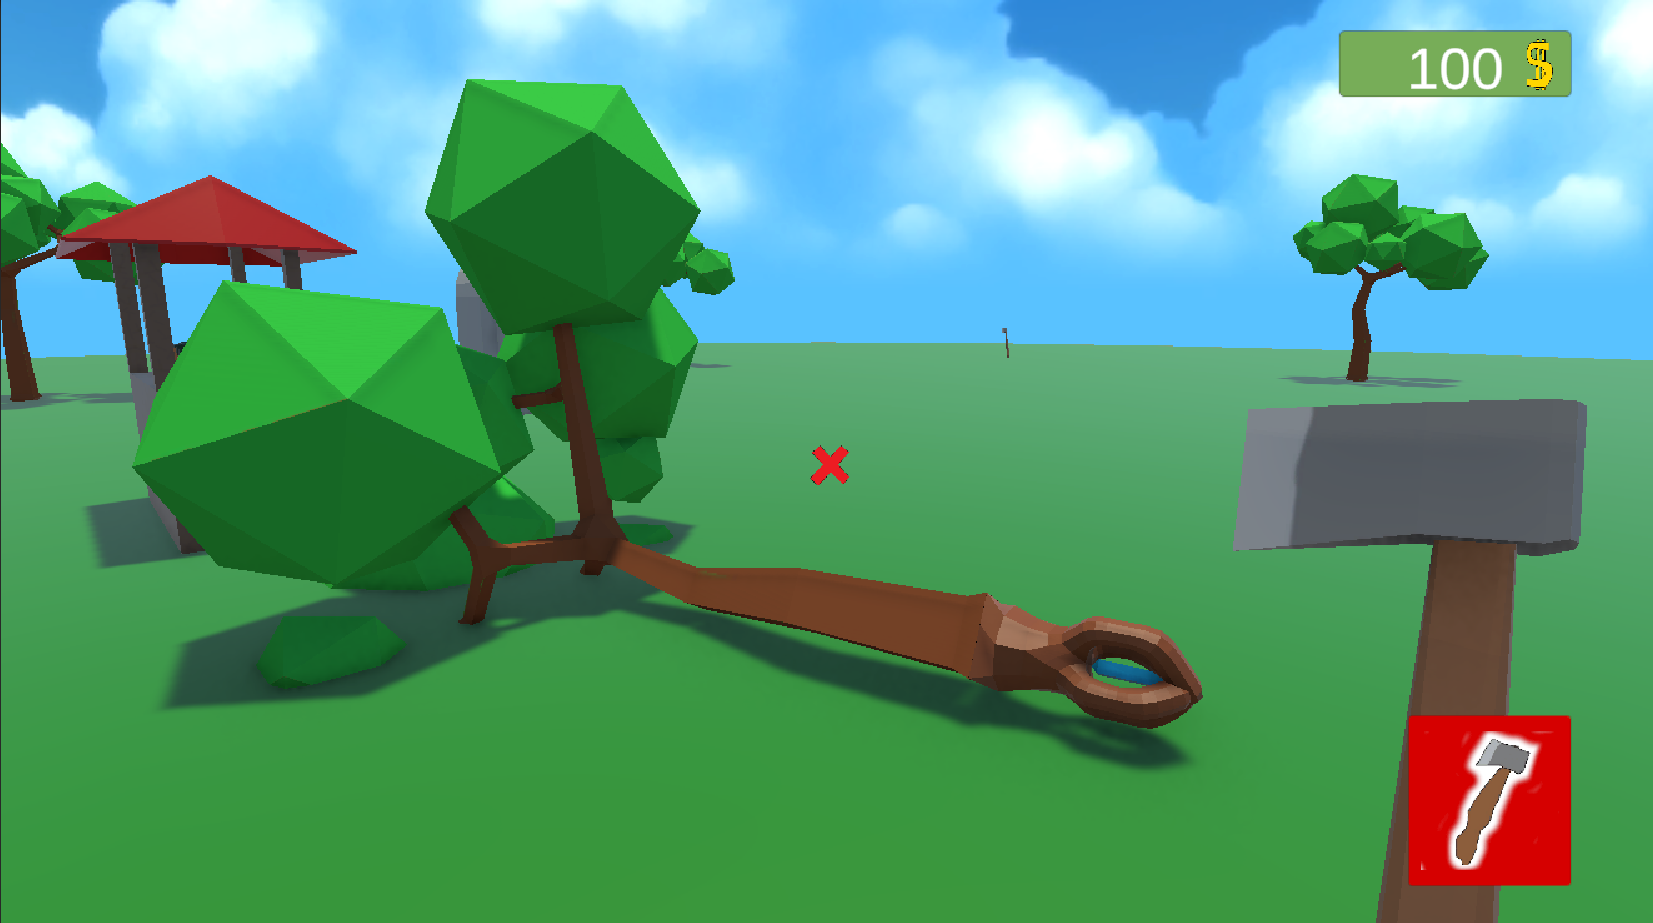
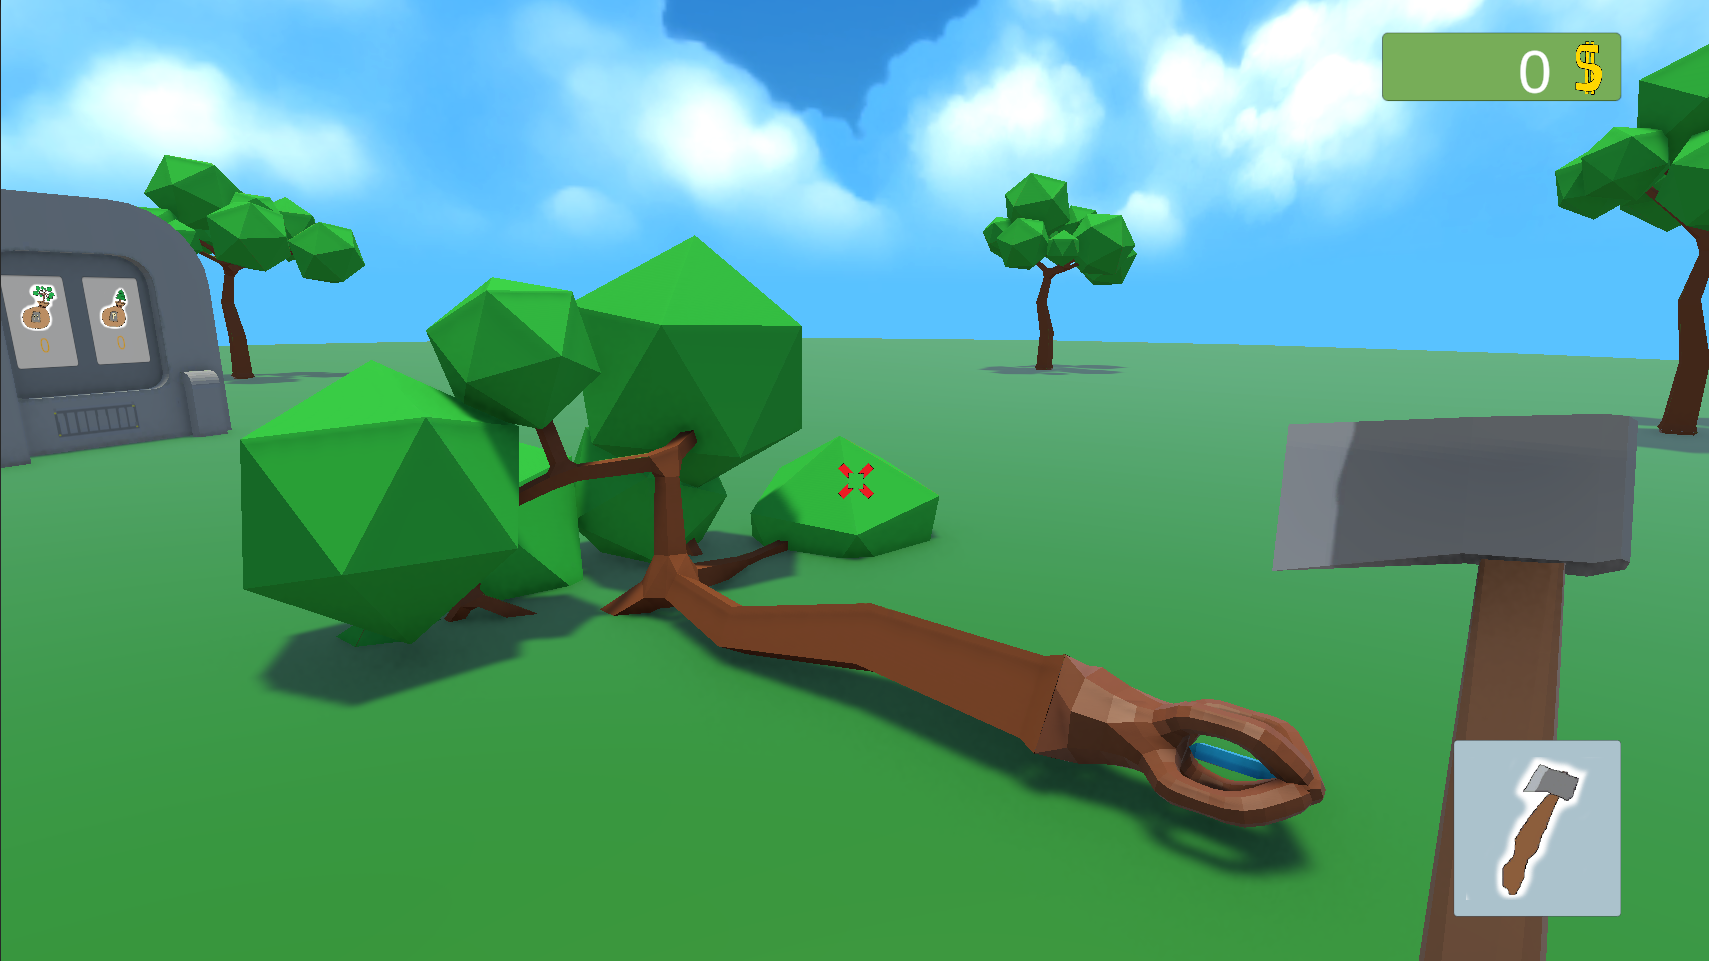
Minor changes and report images

diff --git a/Treetening/Assets/Scripts/Weapons/PlayerInventory.cs b/Treetening/Assets/Scripts/Weapons/PlayerInventory.cs
@@ -6,9 +6,9 @@ public class PlayerInventory : MonoBehaviour
     [Header("Weapons")]
     public List<WeaponData> allWeaponData; //List with every weapon's WeaponDatas (populate manualy in the inspector)
     public List<WeaponInstance> ownedWeapons = new List<WeaponInstance>();
-    public WeaponManager weaponManager;
     [SerializeField] private int weaponPrice;
     [SerializeField] private float weaponPriceMult;
+    public WeaponManager weaponManager;
 
     [Header("Money")]
     private int money;
@@ -114,8 +114,8 @@ public class PlayerInventory : MonoBehaviour
             ownedSeeds.Add(0);
         }
 
-        //Debug
-        money = 100;
-        hudScript.UpdateMoney();
+        // //Debug
+        // money = 100;
+        // hudScript.UpdateMoney();
     }
 }

diff --git a/Treetening/Assets/Scripts/Player/InteractScript.cs b/Treetening/Assets/Scripts/Player/InteractScript.cs
@@ -274,7 +274,7 @@ public class InteractScript : MonoBehaviour
     }
 
     /*----------------------------------------------//-----------------------------------------------*/
-    //  Creates a sphere taht represents the area affected by the hit detection (Debug purposes)
+    //  Creates a sphere that represents the area affected by the hit detection (Debug purposes)
     private void VisualizeDetection(Vector3 explosionPoint)
     {
         // Create a sphere primitive for visualization

diff --git a/Treetening/Assets/Scripts/Weapons/WeaponBehaviour/RocketGlovesBehaviour.cs b/Treetening/Assets/Scripts/Weapons/WeaponBehaviour/RocketGlovesBehaviour.cs
@@ -78,7 +78,6 @@ public class RocketGlovesBehaviour : WeaponBehaviour
         canShoot = freeToShoot;
     }
 
-
     public void applyDamage(Collider hit)
     {
         TreeScript treeScript = hit.gameObject.GetComponent<TreeScript>();
